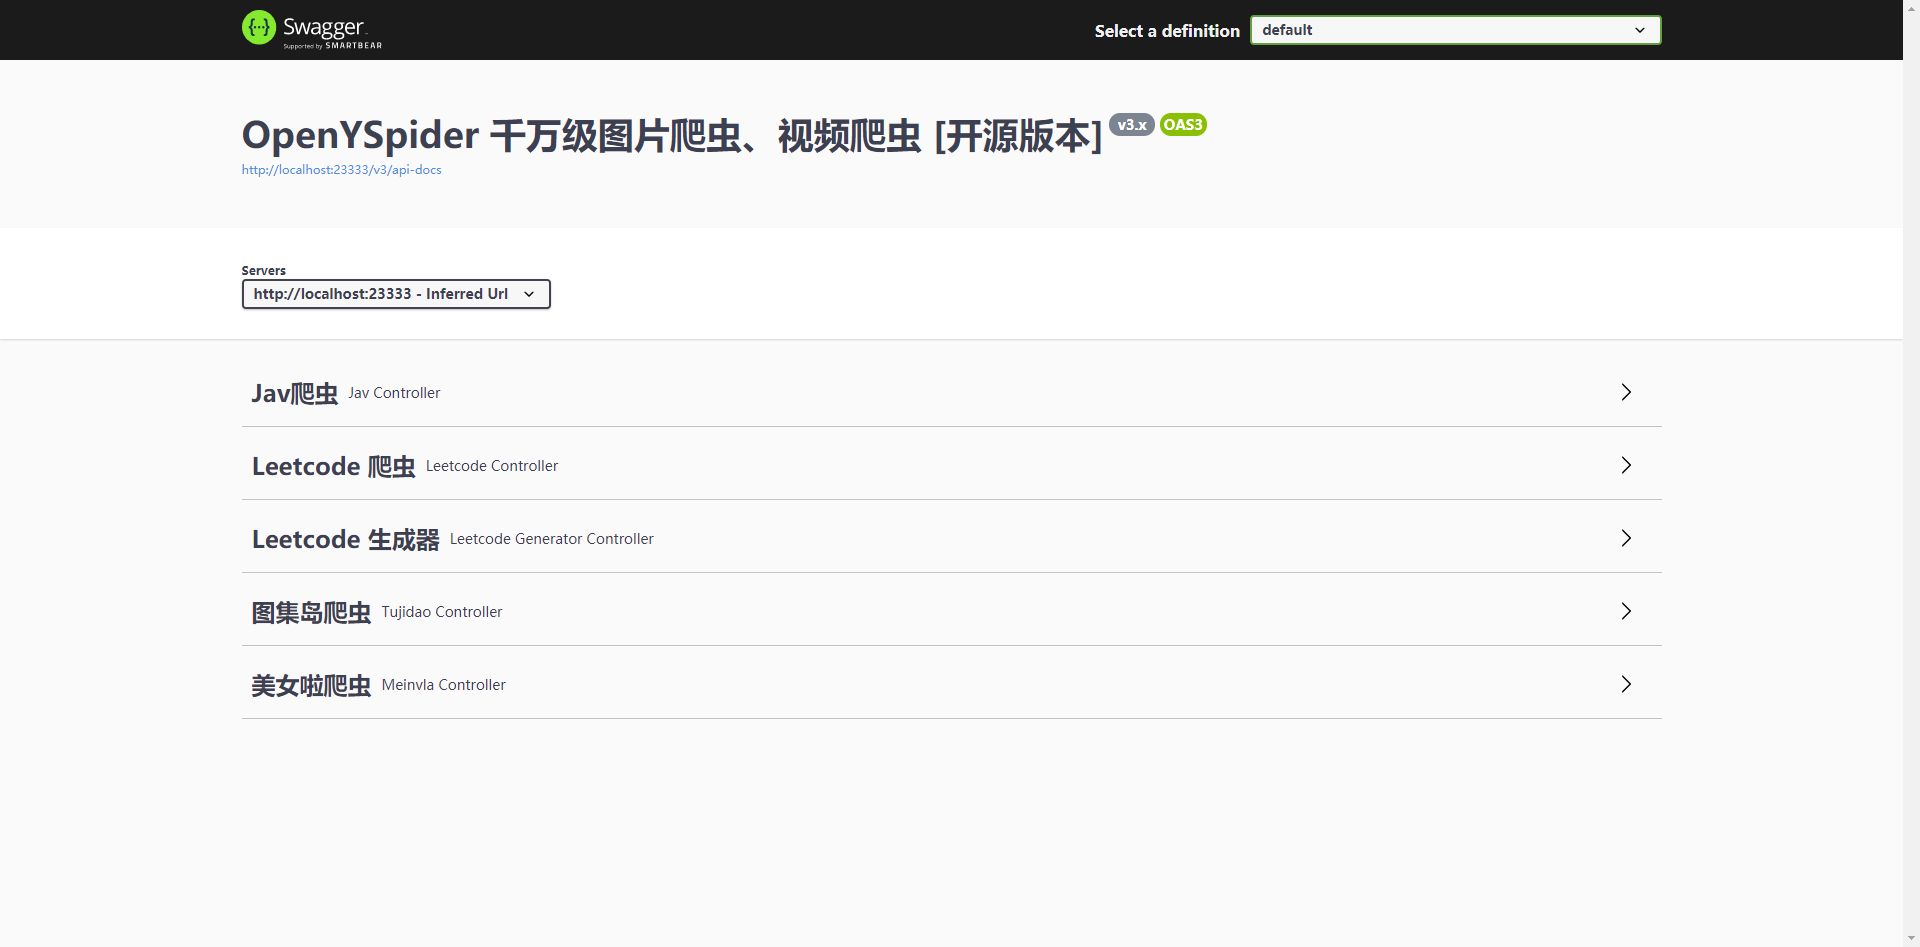
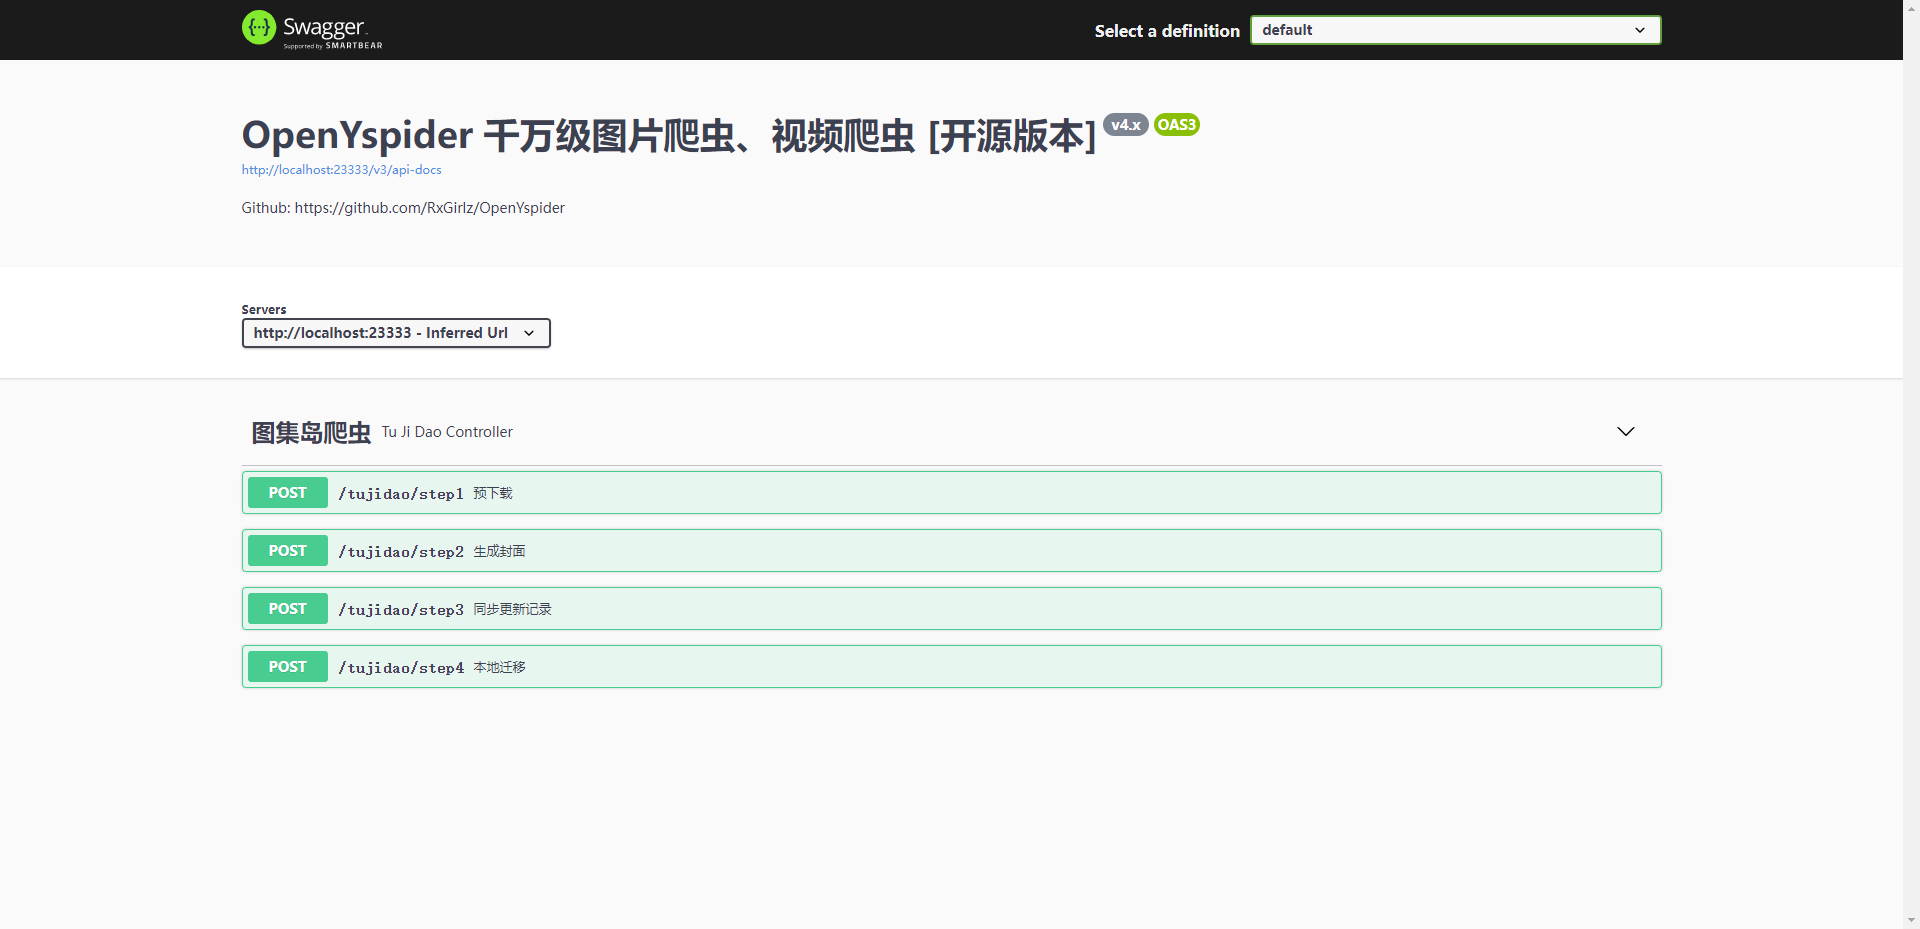
add doSyncRecords() UT

diff --git a/oys-tujidao/src/test/java/com/devyy/oys/tujidao/TuJiDaoServiceImplTest.java b/oys-tujidao/src/test/java/com/devyy/oys/tujidao/TuJiDaoServiceImplTest.java
@@ -1,45 +1,62 @@
 package com.devyy.oys.tujidao;
 
+import com.devyy.oys.tujidao.dao.TuJiDaoAlbumMapper;
+
 import org.jsoup.Jsoup;
 import org.jsoup.nodes.Document;
-import org.junit.Assert;
-import org.junit.Test;
-import org.junit.runner.RunWith;
+
+import org.junit.jupiter.api.Assertions;
+import org.junit.jupiter.api.Test;
+import org.junit.jupiter.api.extension.ExtendWith;
+
 import org.mockito.InjectMocks;
+import org.mockito.Mock;
+import org.mockito.MockedStatic;
 import org.mockito.Mockito;
-import org.powermock.api.mockito.PowerMockito;
-import org.powermock.core.classloader.annotations.PrepareForTest;
-import org.powermock.modules.junit4.PowerMockRunner;
-import org.springframework.test.context.junit4.SpringJUnit4ClassRunner;
-import org.springframework.test.context.junit4.SpringRunner;
+import org.mockito.junit.jupiter.MockitoExtension;
 
 import java.io.File;
 import java.io.IOException;
 import java.net.URL;
 import java.nio.charset.StandardCharsets;
+import java.util.ArrayList;
 
-@RunWith(PowerMockRunner.class)
-@PrepareForTest(Jsoup.class)
+/**
+ * TuJiDaoServiceImpl UT
+ *
+ * @since 2022-01-18
+ */
+@ExtendWith(MockitoExtension.class)
 public class TuJiDaoServiceImplTest {
     @InjectMocks
     private final TuJiDaoServiceImpl tuJiDaoService = new TuJiDaoServiceImpl();
 
+    @Mock
+    private TuJiDaoAlbumMapper tuJiDaoAlbumMapper;
+
     @Test
     public void doSyncRecords() throws IOException {
+        // mock 网页
         URL url = getClass().getResource("/gengxin.html");
-        Assert.assertNotNull(url);
+        Assertions.assertNotNull(url);
         File file = new File(url.getPath());
         Document document = Jsoup.parse(file, StandardCharsets.UTF_8.name());
 
-        PowerMockito.mockStatic(Jsoup.class);
-        PowerMockito.when(Jsoup.connect("null1").get()).thenReturn(document);
+        // mock Jsoup.connect().cookies().get()
+        MockedStatic<Jsoup> jsoupMockedStatic = Mockito.mockStatic(Jsoup.class, Mockito.RETURNS_DEEP_STUBS);
+        jsoupMockedStatic.when(() -> Jsoup.connect(Mockito.anyString()).cookies(Mockito.anyMap()).get())
+                .thenReturn(document);
 
-//        PowerMockito.when(Jsoup.connect(Mockito.anyString()).get()).thenReturn(document);
-//        Mockito.when(Jsoup.connect(Mockito.anyString()).cookies(Mockito.anyMap()).get()).thenReturn(document);
+        // mock tuJiDaoAlbumMapper.selectByMap()
+        Mockito.when(tuJiDaoAlbumMapper.selectByMap(Mockito.anyMap())).thenReturn(new ArrayList<>());
 
+        // mock tuJiDaoAlbumMapper.insert()
+        Mockito.when(tuJiDaoAlbumMapper.insert(Mockito.any())).thenReturn(1);
+
+        // doTest
         tuJiDaoService.doSyncRecords();
-
-        PowerMockito.verifyStatic(Jsoup.class);
-
+        // verify
+        jsoupMockedStatic.verify(() -> Jsoup.connect(Mockito.anyString()), Mockito.atLeastOnce());
+        Mockito.verify(tuJiDaoAlbumMapper, Mockito.atLeastOnce()).insert(Mockito.any());
     }
 }

diff --git a/oys-boot-starter/src/main/java/com/devyy/oys/srarter/config/Swagger3Config.java b/oys-boot-starter/src/main/java/com/devyy/oys/srarter/config/Swagger3Config.java
@@ -33,7 +33,8 @@ public class Swagger3Config {
 
     private ApiInfo apiInfo() {
         return new ApiInfoBuilder()
-                .title("OpenYSpider 千万级图片爬虫、视频爬虫 [开源版本]")
+                .title("OpenYspider 千万级图片爬虫、视频爬虫 [开源版本]")
+                .description("Github: https://github.com/RxGirlz/OpenYspider")
                 .version("v4.x")
                 .build();
     }

diff --git a/README.md b/README.md
@@ -8,11 +8,13 @@
 
 OpenYspider 是一个使用 Java 编写的简单爬虫。主要用到的技术栈有：
 
-1. spring-boot-web
-2. mybatis-plus
-3. springfox-swagger3
-4. lombok
-5. jsoup
+1. spring-boot-starter-web
+2. spring-boot-starter-test
+3. mybatis-plus-boot-starter
+4. springfox-boot-starter
+5. lombok
+6. jsoup
+7. mockito + jacoco
 
 当前 LTS 的网站有：
 
